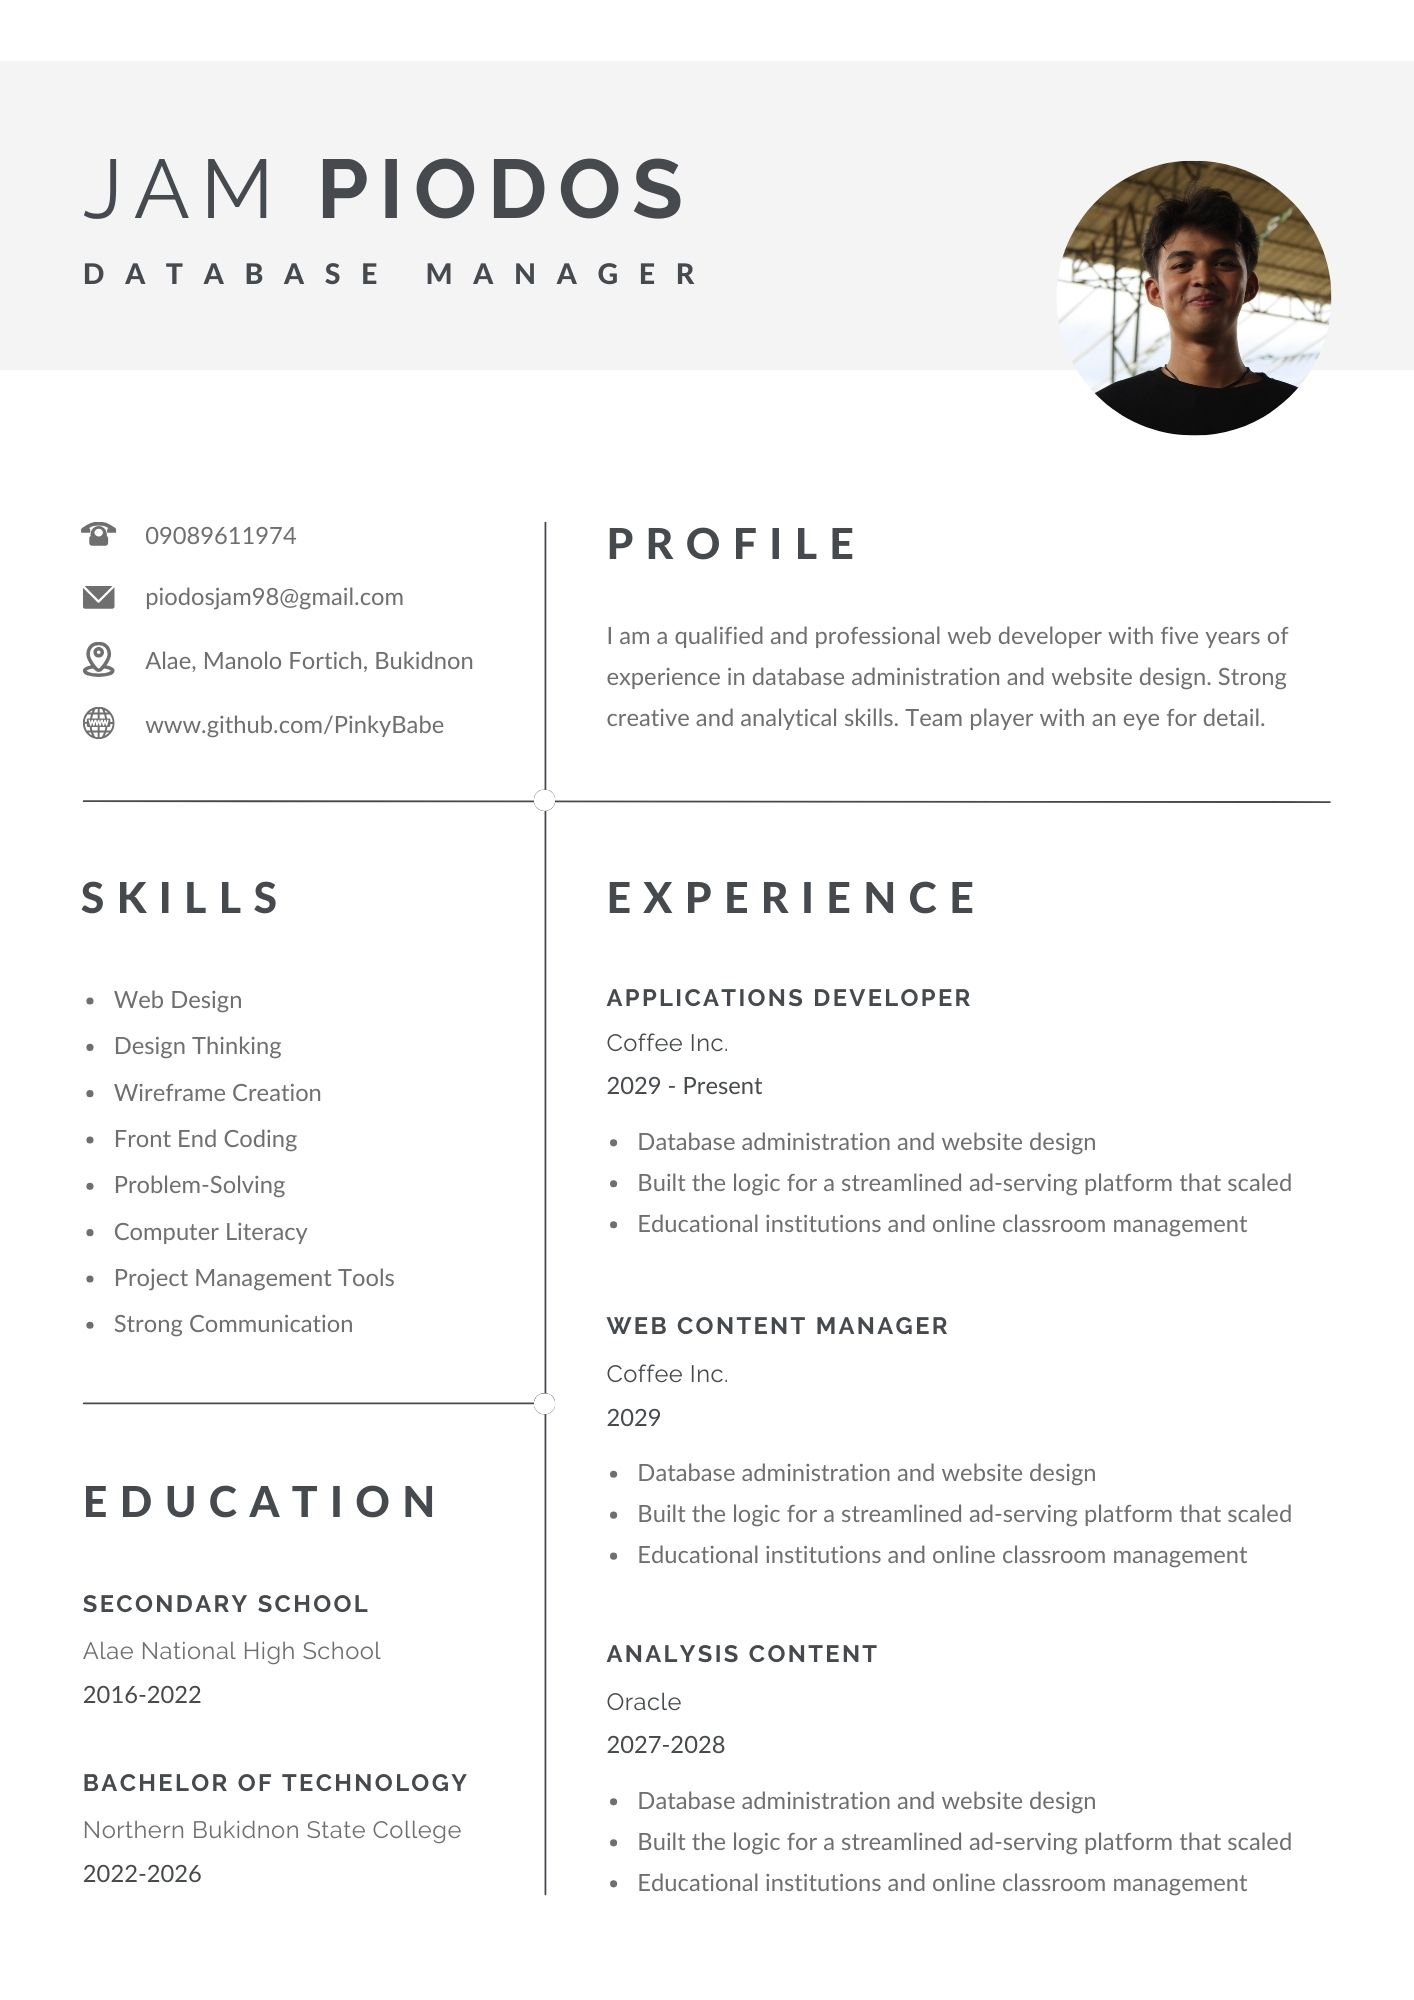
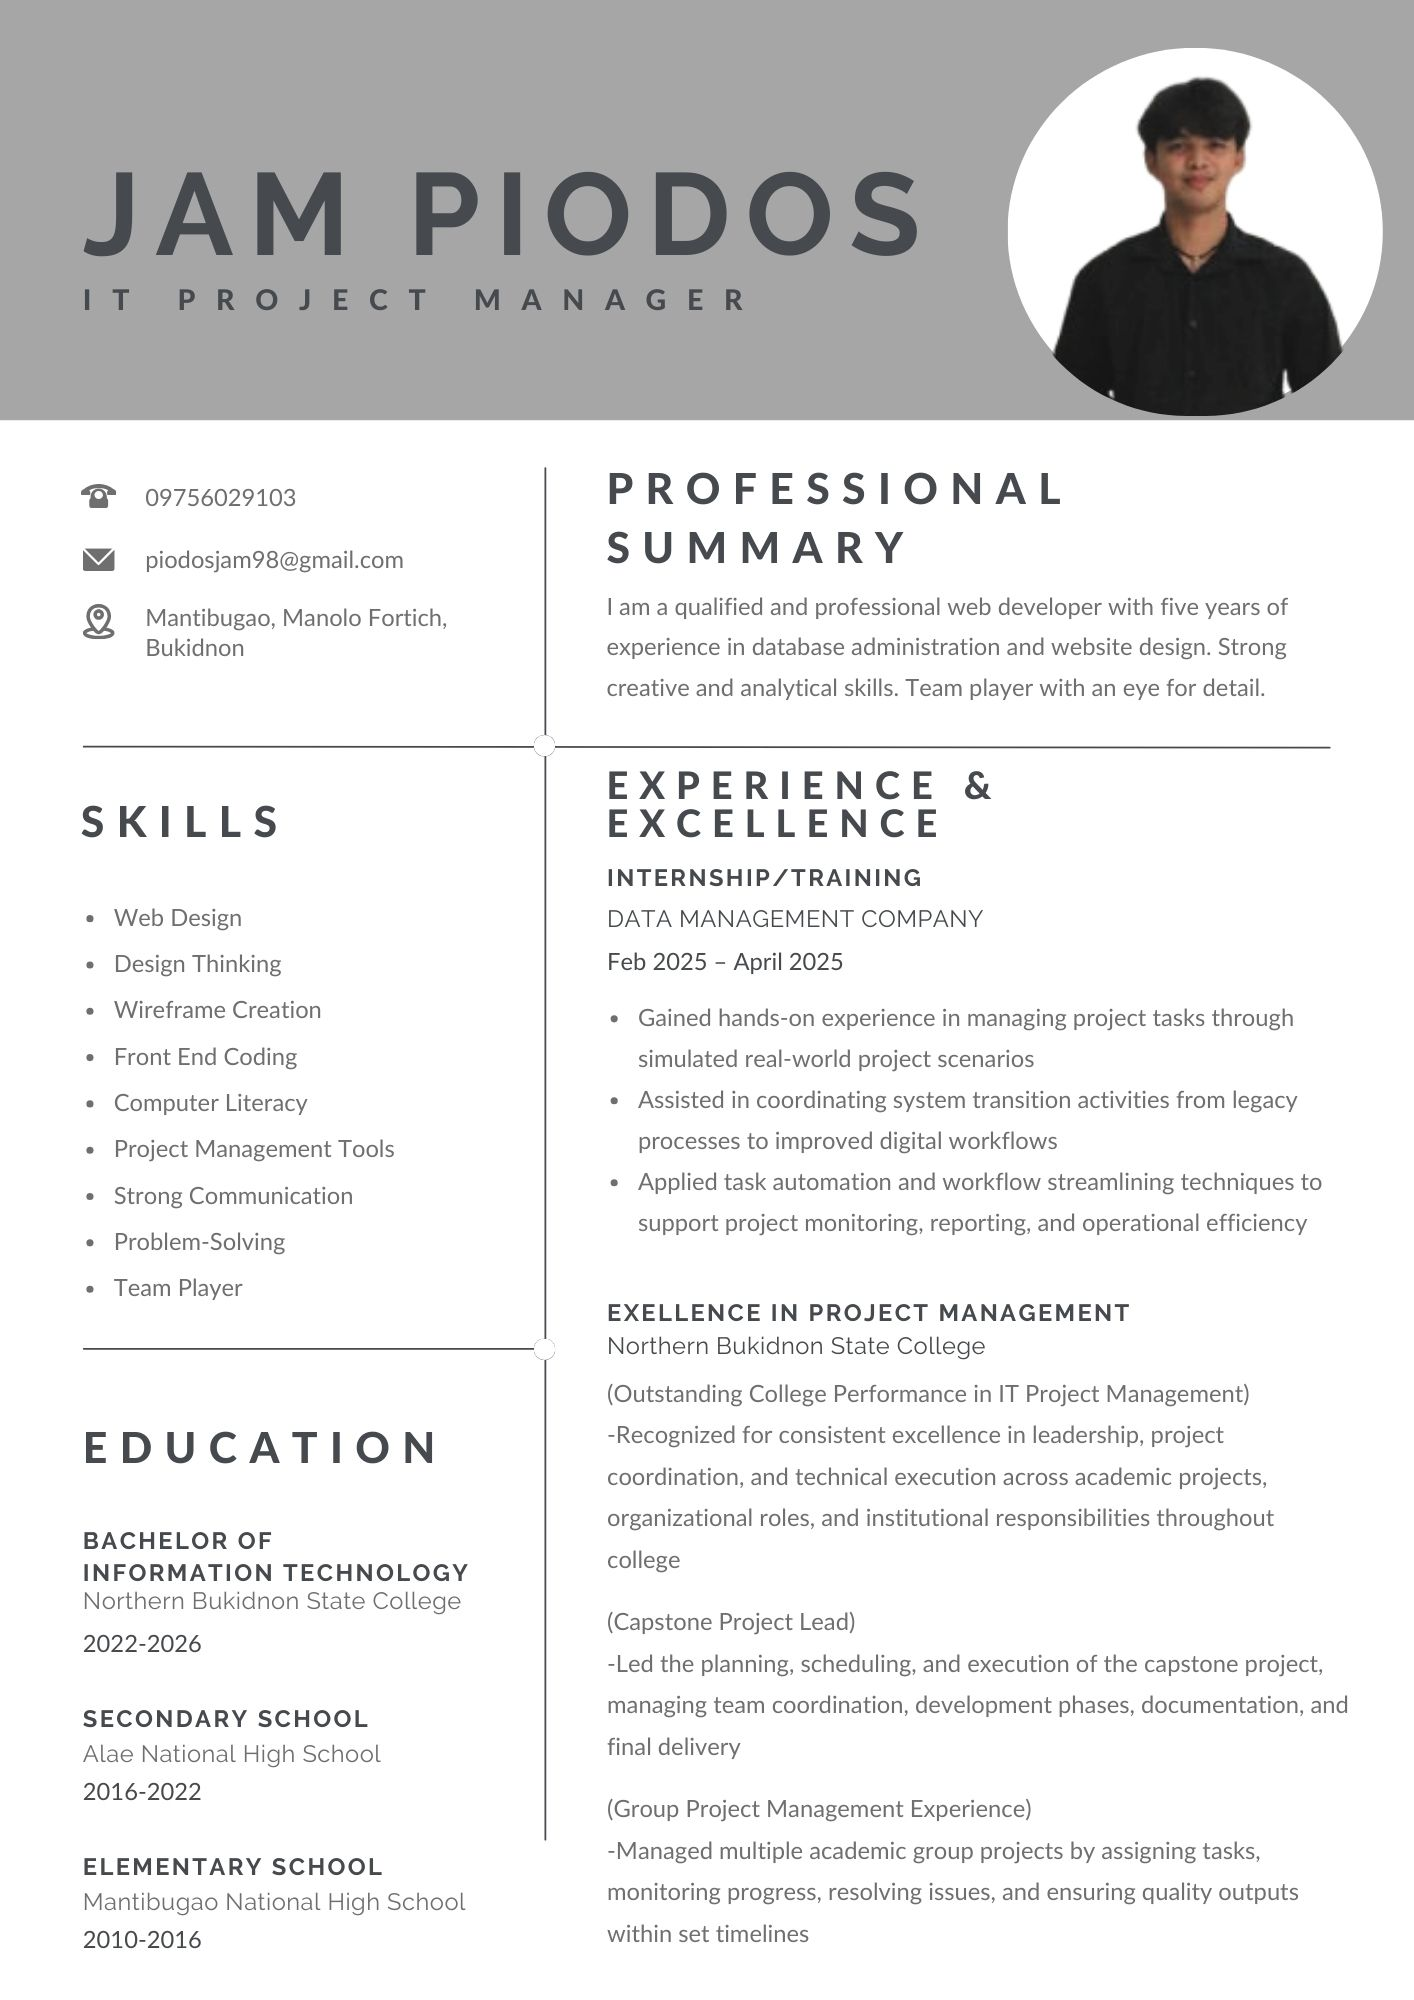
copying character profile from open source and modify

diff --git a/style.css b/style.css
@@ -216,3 +216,223 @@ footer {
 audio {
     display: none;
 }
+
+/* Game-inspired Character Profile Styles */
+.character-profile {
+    background: linear-gradient(135deg, #1a1a2e 0%, #16213e 100%);
+    border: 3px solid #ff6b9d;
+    border-radius: 15px;
+    padding: 30px;
+    box-shadow: 0 0 30px rgba(255, 107, 157, 0.5), inset 0 0 20px rgba(0, 0, 0, 0.3);
+    max-width: 900px;
+    margin: 0 auto;
+}
+
+.profile-header {
+    text-align: center;
+    margin-bottom: 30px;
+    padding-bottom: 15px;
+    border-bottom: 2px solid #ff6b9d;
+}
+
+.profile-header h2 {
+    color: #ff6b9d;
+    font-size: 2.5em;
+    text-shadow: 0 0 10px rgba(255, 107, 157, 0.8), 2px 2px 4px rgba(0, 0, 0, 0.8);
+    margin: 0;
+    letter-spacing: 3px;
+    font-weight: bold;
+}
+
+.profile-content {
+    display: flex;
+    gap: 40px;
+    align-items: flex-start;
+}
+
+.character-portrait {
+    position: relative;
+    flex-shrink: 0;
+}
+
+.character-img {
+    width: 250px;
+    height: 300px;
+    object-fit: cover;
+    border: 4px solid #ff6b9d;
+    border-radius: 10px;
+    box-shadow: 0 0 20px rgba(255, 107, 157, 0.6), inset 0 0 20px rgba(0, 0, 0, 0.3);
+    background: #0f0f1e;
+    padding: 5px;
+}
+
+.level-badge {
+    position: absolute;
+    top: -15px;
+    right: -15px;
+    background: linear-gradient(135deg, #ff6b9d 0%, #c44569 100%);
+    color: white;
+    padding: 8px 15px;
+    border-radius: 20px;
+    font-weight: bold;
+    font-size: 1.2em;
+    border: 3px solid white;
+    box-shadow: 0 4px 10px rgba(0, 0, 0, 0.5);
+    text-shadow: 1px 1px 2px rgba(0, 0, 0, 0.8);
+}
+
+.character-stats {
+    flex: 1;
+    display: flex;
+    flex-direction: column;
+    gap: 20px;
+}
+
+.stat-section {
+    display: flex;
+    justify-content: space-between;
+    align-items: center;
+    padding: 12px 15px;
+    background: rgba(0, 0, 0, 0.4);
+    border-left: 4px solid #ff6b9d;
+    border-radius: 5px;
+}
+
+.stat-label {
+    color: #ff6b9d;
+    font-weight: bold;
+    font-size: 0.9em;
+    letter-spacing: 1px;
+    text-shadow: 0 0 5px rgba(255, 107, 157, 0.5);
+}
+
+.stat-value {
+    color: white;
+    font-size: 1.1em;
+    font-weight: bold;
+    text-shadow: 1px 1px 2px rgba(0, 0, 0, 0.8);
+}
+
+.stat-value a {
+    color: #ffb6c1;
+    text-decoration: none;
+    transition: color 0.3s;
+}
+
+.stat-value a:hover {
+    color: #ff6b9d;
+    text-shadow: 0 0 8px rgba(255, 107, 157, 0.8);
+}
+
+.stat-bar-section {
+    margin-top: 10px;
+}
+
+.stat-bar-label {
+    display: flex;
+    justify-content: space-between;
+    margin-bottom: 8px;
+    color: #ff6b9d;
+    font-weight: bold;
+    font-size: 0.95em;
+    letter-spacing: 1px;
+}
+
+.stat-numbers {
+    color: white;
+    text-shadow: 1px 1px 2px rgba(0, 0, 0, 0.8);
+}
+
+.stat-bar {
+    width: 100%;
+    height: 25px;
+    background: rgba(0, 0, 0, 0.6);
+    border: 2px solid #ff6b9d;
+    border-radius: 12px;
+    overflow: hidden;
+    position: relative;
+    box-shadow: inset 0 2px 5px rgba(0, 0, 0, 0.5);
+}
+
+.stat-bar-fill {
+    height: 100%;
+    border-radius: 8px;
+    transition: width 0.5s ease;
+    position: relative;
+    box-shadow: 0 0 10px rgba(255, 107, 157, 0.6);
+}
+
+.hp-bar {
+    background: linear-gradient(90deg, #ff4757 0%, #ff6b9d 100%);
+}
+
+.xp-bar {
+    background: linear-gradient(90deg, #5f27cd 0%, #a55eea 100%);
+}
+
+.skills-section {
+    margin-top: 20px;
+    padding: 20px;
+    background: rgba(0, 0, 0, 0.4);
+    border: 2px solid #ff6b9d;
+    border-radius: 10px;
+}
+
+.skills-header {
+    color: #ff6b9d;
+    font-weight: bold;
+    font-size: 1.3em;
+    margin-bottom: 15px;
+    text-align: center;
+    letter-spacing: 2px;
+    text-shadow: 0 0 8px rgba(255, 107, 157, 0.6);
+    padding-bottom: 10px;
+    border-bottom: 2px solid rgba(255, 107, 157, 0.3);
+}
+
+.skills-grid {
+    display: grid;
+    grid-template-columns: repeat(auto-fit, minmax(150px, 1fr));
+    gap: 12px;
+}
+
+.skill-item {
+    background: linear-gradient(135deg, rgba(255, 107, 157, 0.2) 0%, rgba(196, 69, 105, 0.2) 100%);
+    border: 2px solid #ff6b9d;
+    color: white;
+    padding: 12px 15px;
+    border-radius: 8px;
+    text-align: center;
+    font-weight: bold;
+    font-size: 0.95em;
+    text-shadow: 1px 1px 2px rgba(0, 0, 0, 0.8);
+    transition: all 0.3s ease;
+    box-shadow: 0 2px 5px rgba(0, 0, 0, 0.3);
+}
+
+.skill-item:hover {
+    background: linear-gradient(135deg, rgba(255, 107, 157, 0.4) 0%, rgba(196, 69, 105, 0.4) 100%);
+    transform: translateY(-2px);
+    box-shadow: 0 4px 10px rgba(255, 107, 157, 0.5);
+}
+
+/* Responsive design for character profile */
+@media (max-width: 768px) {
+    .profile-content {
+        flex-direction: column;
+        align-items: center;
+    }
+    
+    .character-img {
+        width: 200px;
+        height: 250px;
+    }
+    
+    .profile-header h2 {
+        font-size: 1.8em;
+    }
+    
+    .skills-grid {
+        grid-template-columns: 1fr;
+    }
+}

diff --git a/home.html b/home.html
@@ -49,25 +49,71 @@
     </main>
 
     <main id="about" class="container hidden">
-        <h2 class="container">About Me</h2>
-        <br><br><br>
-        <img class="pic" src="jam.jpg" alt="jam.jpg">
-        <h5>Name: Jam Piodos</h5>
-        <h5>HP: 32/102</h5>
-        <h5>XP: 50/365</h5>
-        <br>
-        <h5>Race: Human</h5>
-        <h5>Class: IT Student</h5>
-        <h5>Age: 20</h5>
-        <h5>GitHub Codename: <a href="https://github.com/PinkyBabe">PinkyBabe</a></h5>
-        <br>
-        <h3>Skills:</h3>
-        <br>
-        <h5>"Encapsulation</5>
-            <h5>"Inheritace"</h5>
-            <h5>"Polymorphism"</h5>
-            <h5>"Abstraction"</h5>
-            <h5>"Bubble Sorting"</h5>
+        <div class="character-profile">
+            <div class="profile-header">
+                <h2>CHARACTER PROFILE</h2>
+            </div>
+            <div class="profile-content">
+                <div class="character-portrait">
+                    <img class="character-img" src="jam.jpg" alt="Character Portrait">
+                    <div class="level-badge">Lv. 22</div>
+                </div>
+                <div class="character-stats">
+                    <div class="stat-section">
+                        <div class="stat-label">NAME</div>
+                        <div class="stat-value">Jam Piodos</div>
+                    </div>
+                    <div class="stat-section">
+                        <div class="stat-label">RACE</div>
+                        <div class="stat-value">Human</div>
+                    </div>
+                    <div class="stat-section">
+                        <div class="stat-label">CLASS</div>
+                        <div class="stat-value">IT Student</div>
+                    </div>
+                    <div class="stat-section github-section">
+                        <div class="stat-label">GITHUB CODENAME</div>
+                        <div class="stat-value github-links">
+                            <a href="https://github.com/PinkyBabe" target="_blank">PinkyBabe</a>
+                            <span class="separator">|</span>
+                            <a href="https://github.com/Jam-Piodos" target="_blank">Jam-Piodos</a>
+                        </div>
+                    </div>
+                    <div class="stat-bar-section">
+                        <div class="stat-bar-label">
+                            <span>HP</span>
+                            <span class="stat-numbers">32 / 102</span>
+                        </div>
+                        <div class="stat-bar">
+                            <div class="stat-bar-fill hp-bar" style="width: 31.37%"></div>
+                        </div>
+                    </div>
+                    <div class="stat-bar-section">
+                        <div class="stat-bar-label">
+                            <span>XP</span>
+                            <span class="stat-numbers">50 / 365</span>
+                        </div>
+                        <div class="stat-bar">
+                            <div class="stat-bar-fill xp-bar" style="width: 13.70%"></div>
+                        </div>
+                    </div>
+                    <div class="skills-section">
+                        <div class="skills-header">SKILLS</div>
+                        <div class="skills-grid">
+                            <div class="skill-item">Web Design</div>
+                            <div class="skill-item">Design Thinking</div>
+                            <div class="skill-item">Wireframe Creation</div>
+                            <div class="skill-item">Front End Coding</div>
+                            <div class="skill-item">Computer Literacy</div>
+                            <div class="skill-item">Project Management Tools</div>
+                            <div class="skill-item">Strong Communication</div>  
+                            <div class="skill-item">Problem-Solving</div>
+                            <div class="skill-item">Team Player</div>
+                        </div>
+                    </div>
+                </div>
+            </div>
+        </div>
     </main>
     <main id="resume" class="container">
         <img class="pic3" src="2.jpg" alt="resume.jpg">
